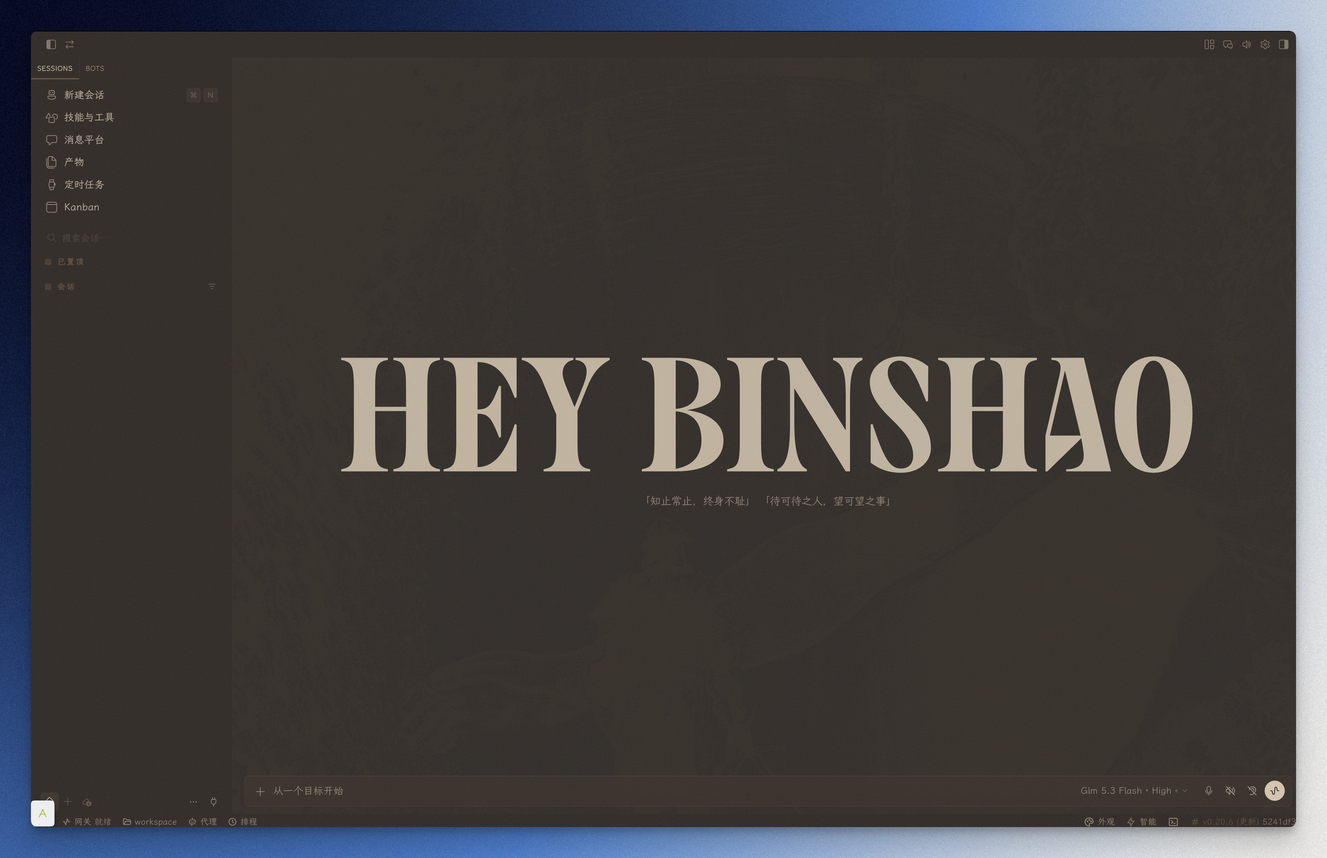
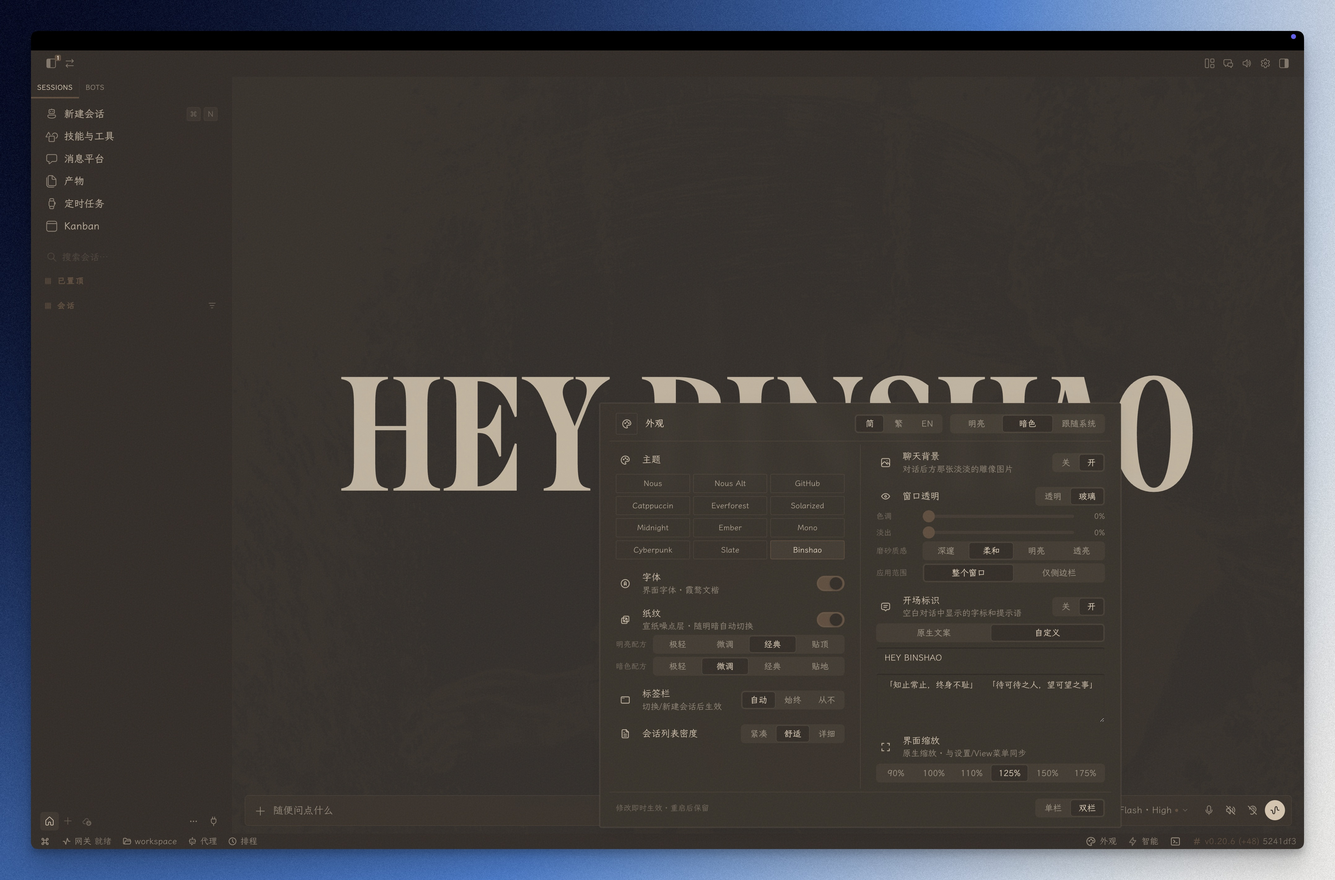
docs: replace Binshao screenshots (light/dark w/ panel); drop Obsidian port mention

diff --git a/README.md b/README.md
@@ -6,7 +6,7 @@
 
 - ✅ 无需构建、不改应用代码——单个 ESM 文件
 - ✅ 状态栏「外观」按钮 → 浮窗开关，与核心状态栏工具同款交互
-- ✅ **主题切换**：明亮/暗色/跟随系统三档 + 12 个主题一键切换（11 个原生 + **Binshao**——Obsidian Primary 暖纸色系移植，明暗双模式 + 终端配色），实时生效
+- ✅ **主题切换**：明亮/暗色/跟随系统三档 + 12 个主题一键切换（11 个原生 + **Binshao** 暖纸色系，明暗双模式 + 终端配色），实时生效
 - ✅ **语言快捷切换**：简/繁/EN 三键绑定官方语言通道，一键切换界面语言（双栏在顶部标题行、单栏在主题标题行）
 - ✅ **字体**：霞鹜文楷界面字体一键开关
 - ✅ **纸纹**：宣纸噪点层，明暗配方各四档（极轻/微调/经典/贴地·贴顶）
@@ -40,7 +40,7 @@
 
 ![外观浮窗 · 双栏](assets/screenshot-panel-dual.jpg)
 
-### Binshao 主题（移植自 Obsidian Primary）
+### Binshao 主题
 
 暖纸色系明暗双模式，配纸纹层食用更佳——亮色泛黄杂志纸，暗色深棕纸：
 
